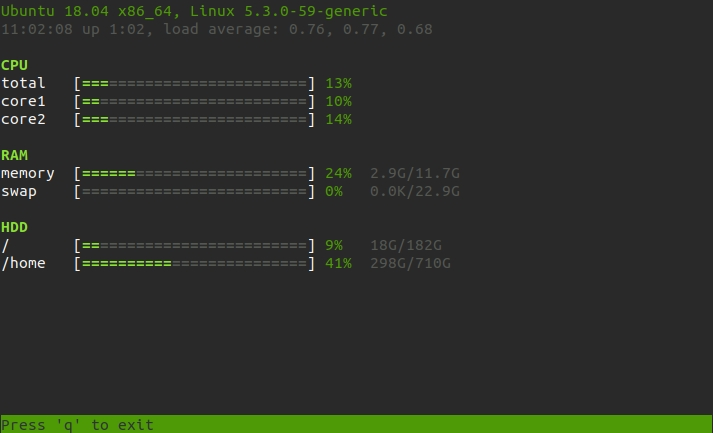
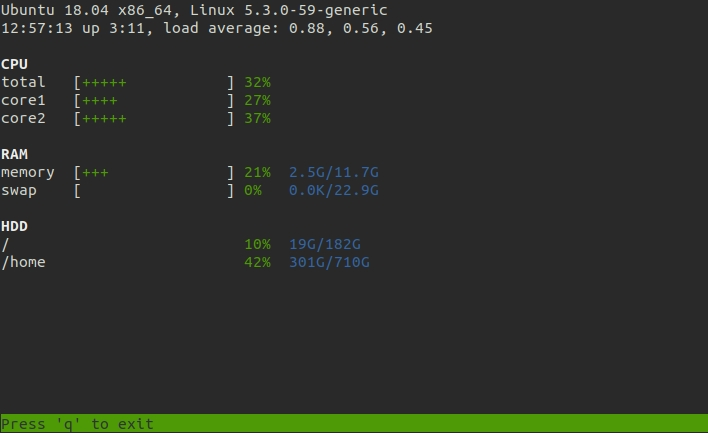
colors map, hdd removed status bar

diff --git a/qinfo/main.py b/qinfo/main.py
@@ -7,59 +7,80 @@ import curses
 import sysinfo
 
 
+colors = {
+    'black': curses.COLOR_BLACK,        # 0
+    'red': curses.COLOR_RED,            # 1
+    'green': curses.COLOR_GREEN,        # 2
+    'yellow': curses.COLOR_YELLOW,      # 3
+    'blue': curses.COLOR_BLUE,          # 4
+    'magenta': curses.COLOR_MAGENTA,    # 5
+    'cyan': curses.COLOR_CYAN,          # 6
+    'white': curses.COLOR_WHITE,        # 7
+    'default': -1
+}
+
 # traceback Ctrl-C
 signal.signal(signal.SIGINT, lambda x,y: sys.exit(0))
 
 def add_unit(stdscr, c_y, c_x, u_data, u_title, u_type):
+    st_bar_len = 16 # status bar length
+    t_len = 8 # title length
+
     if u_type == 'cpu':
         # title
-        stdscr.addstr(c_y, c_x, u_title)
+        stdscr.addstr(c_y, c_x, u_title, curses.color_pair(2))
         # status bar
-        c_x = c_x + 8
-        stdscr.addstr(c_y, c_x, '[')
+        c_x = c_x + t_len
+        stdscr.addstr(c_y, c_x, '[', curses.color_pair(2))
         c_x = c_x + 1
         perc = int(u_data['used'])
-        st_bar_len = 25
         st_bar_used = (st_bar_len * perc) / 100
         st_bar_free = st_bar_len - st_bar_used
-        if st_bar_used == 0:
-            stdscr.addstr(c_y, c_x, '=' * st_bar_free, curses.color_pair(2) | curses.A_BOLD)
-        else:
-            stdscr.addstr(c_y, c_x, '=' * st_bar_used, curses.color_pair(3) | curses.A_BOLD)
-            stdscr.addstr(c_y, c_x + st_bar_used, '=' * st_bar_free, curses.color_pair(2) | curses.A_BOLD)
+        if st_bar_used > 0:
+            stdscr.addstr(c_y, c_x, '+' * st_bar_used, curses.color_pair(3))
         c_x = c_x + st_bar_len
-        stdscr.addstr(c_y, c_x, ']')
+        stdscr.addstr(c_y, c_x, ']', curses.color_pair(2))
         # used %
         c_x = c_x + 2
         stdscr.addstr(c_y, c_x, str(perc) + '%', curses.color_pair(3))
 
-    if u_type in ('ram','hdd'):
+    if u_type in ('ram'):
         # title
-        stdscr.addstr(c_y, c_x, u_title)
+        stdscr.addstr(c_y, c_x, u_title, curses.color_pair(2))
         # status bar
-        c_x = c_x + 8
-        stdscr.addstr(c_y, c_x, '[')
+        c_x = c_x + t_len
+        stdscr.addstr(c_y, c_x, '[', curses.color_pair(2))
         c_x = c_x + 1
         perc = int((float(u_data['used']) / float(u_data['size'])) * 100)
-        st_bar_len = 25
         st_bar_used = (st_bar_len * perc) / 100
         st_bar_free = st_bar_len - st_bar_used
-        if st_bar_used == 0:
-            stdscr.addstr(c_y, c_x, '=' * st_bar_free, curses.color_pair(2) | curses.A_BOLD)
-        else:
-            stdscr.addstr(c_y, c_x, '=' * st_bar_used, curses.color_pair(3) | curses.A_BOLD)
-            stdscr.addstr(c_y, c_x + st_bar_used, '=' * st_bar_free, curses.color_pair(2) | curses.A_BOLD)
+        if st_bar_used > 0:
+            stdscr.addstr(c_y, c_x, '+' * st_bar_used, curses.color_pair(3))
         c_x = c_x + st_bar_len
-        stdscr.addstr(c_y, c_x, ']')
+        stdscr.addstr(c_y, c_x, ']', curses.color_pair(2))
         # used %
         c_x = c_x + 2
         stdscr.addstr(c_y, c_x, str(perc) + '%', curses.color_pair(3))
         # used
         c_x = c_x + 5
-        stdscr.addstr(c_y, c_x, u_data['used'] + u_data['used_f'], curses.color_pair(2))
+        stdscr.addstr(c_y, c_x, u_data['used'] + u_data['used_f'], curses.color_pair(4))
         # size
         c_x = c_x + len(u_data['used'] + u_data['used_f'])
-        stdscr.addstr(c_y, c_x, '/' + u_data['size'] + u_data['size_f'], curses.color_pair(2))
+        stdscr.addstr(c_y, c_x, '/' + u_data['size'] + u_data['size_f'], curses.color_pair(4))
+
+    if u_type in ('hdd'):
+        # title
+        stdscr.addstr(c_y, c_x, u_title, curses.color_pair(2))
+        # used %
+        c_x = c_x + t_len + 3 + st_bar_len
+        perc = int((float(u_data['used']) / float(u_data['size'])) * 100)
+        stdscr.addstr(c_y, c_x, str(perc) + '%', curses.color_pair(3))
+        # used
+        c_x = c_x + 5
+        stdscr.addstr(c_y, c_x, u_data['used'] + u_data['used_f'], curses.color_pair(4))
+        # size
+        c_x = c_x + len(u_data['used'] + u_data['used_f'])
+        stdscr.addstr(c_y, c_x, '/' + u_data['size'] + u_data['size_f'], curses.color_pair(4))
 
 def main(stdscr):
     k = 0
@@ -71,9 +92,10 @@ def main(stdscr):
     curses.use_default_colors()
 
     curses.start_color()
-    curses.init_pair(1, 0,  2) # bottom info
-    curses.init_pair(2, 8, -1) # status bar (free)
-    curses.init_pair(3, 2, -1) # status bar (used)
+    curses.init_pair(1, colors['black'], colors['green'])
+    curses.init_pair(2, colors['white'], colors['default'])
+    curses.init_pair(3, colors['green'], colors['default'])
+    curses.init_pair(4, colors['blue'], colors['default'])
 
     while (k != ord('q')):
 
@@ -92,7 +114,7 @@ def main(stdscr):
             lsb = sysinfo.lsb()
 
             c_y, c_x = 0, 0
-            stdscr.addstr(c_y, c_x, lsb, curses.color_pair(3))
+            stdscr.addstr(c_y, c_x, lsb, curses.color_pair(2))
 
             # uptime, load average
             # ------------------------------------------------------------------
@@ -106,7 +128,7 @@ def main(stdscr):
             cpu = sysinfo.cpu()
 
             c_y, c_x = c_y + 2, 0
-            stdscr.addstr(c_y, c_x, 'CPU', curses.color_pair(3) | curses.A_BOLD)
+            stdscr.addstr(c_y, c_x, 'CPU', curses.color_pair(2) | curses.A_BOLD)
 
             i = c_y + 1
             for item in cpu:
@@ -120,7 +142,7 @@ def main(stdscr):
             swp = sysinfo.swp()
 
             c_y, c_x = i + 1, 0
-            stdscr.addstr(c_y, c_x, 'RAM', curses.color_pair(3) | curses.A_BOLD)
+            stdscr.addstr(c_y, c_x, 'RAM', curses.color_pair(2) | curses.A_BOLD)
 
             c_y, c_x = c_y + 1, 0
             add_unit(stdscr, c_y, c_x, mem, 'memory', 'ram')
@@ -133,7 +155,7 @@ def main(stdscr):
             hdd = sysinfo.hdd()
 
             c_y, c_x = c_y + 2, 0
-            stdscr.addstr(c_y, c_x, 'HDD', curses.color_pair(3) | curses.A_BOLD)
+            stdscr.addstr(c_y, c_x, 'HDD', curses.color_pair(2) | curses.A_BOLD)
 
             j = c_y + 1
             for item in hdd:
